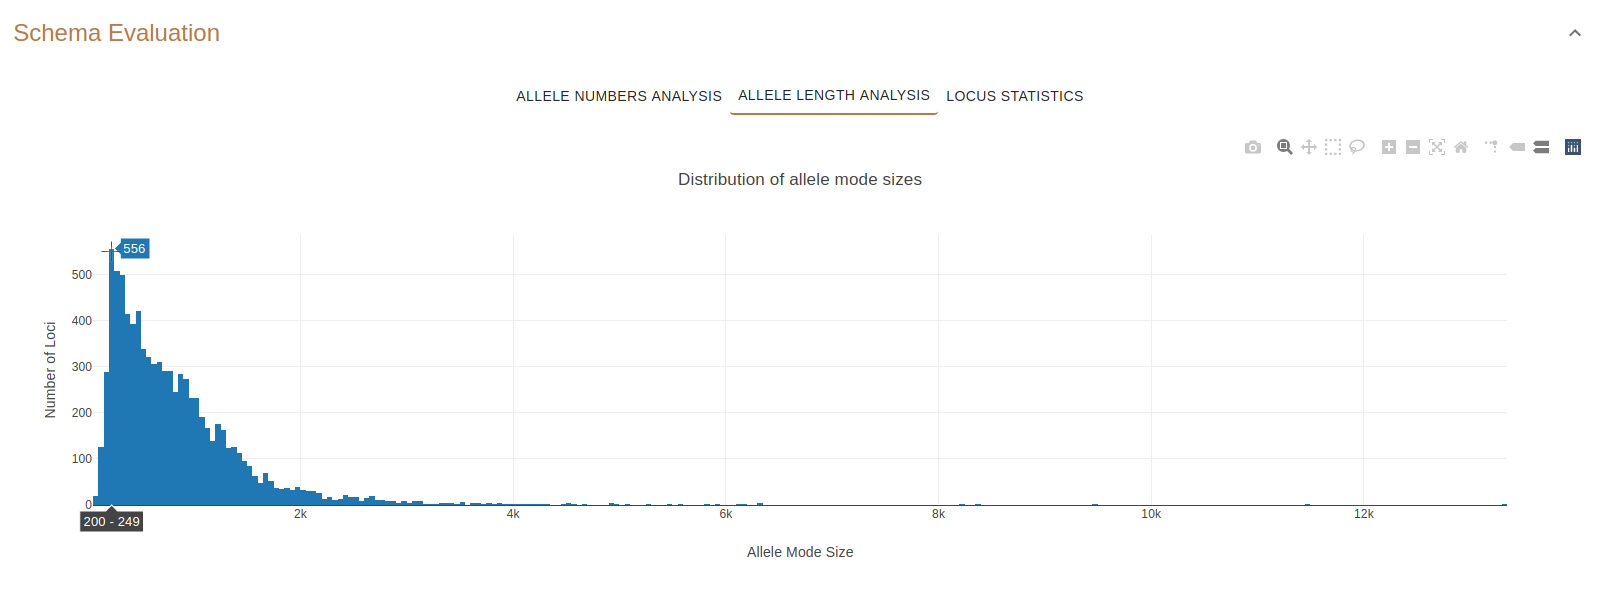
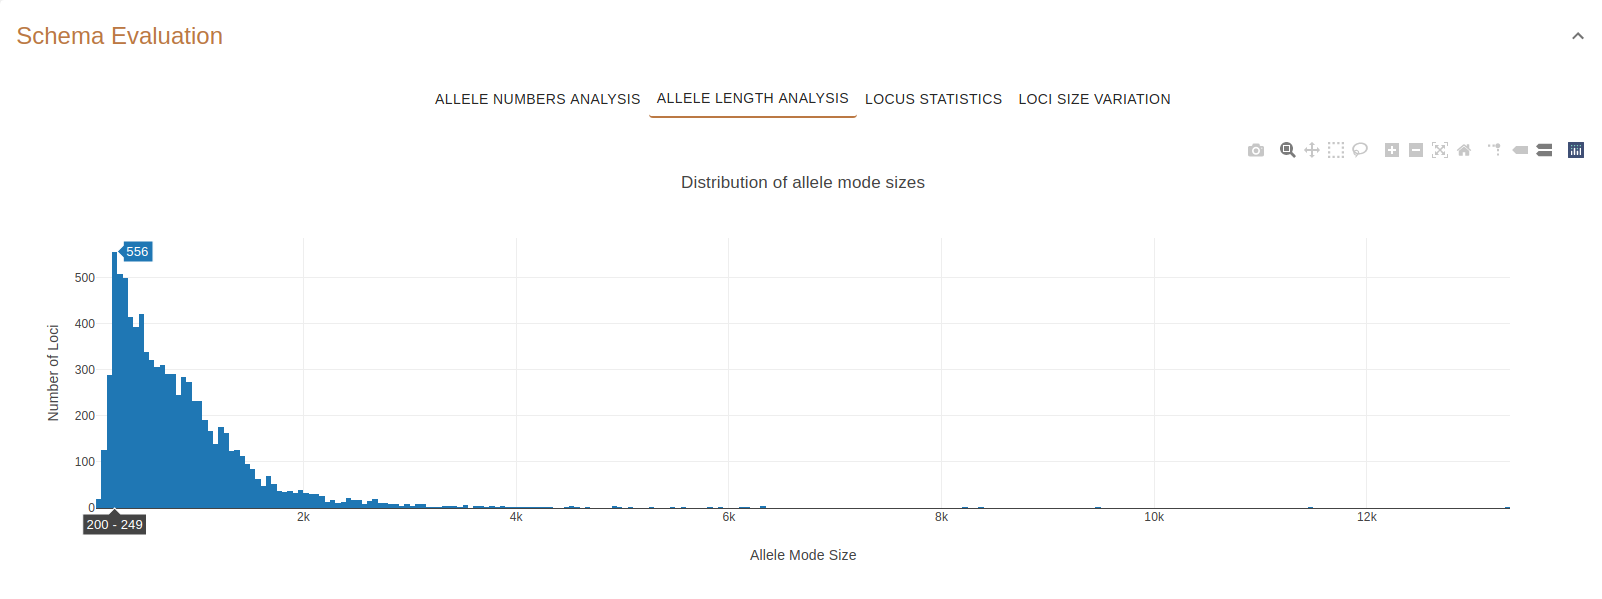
Added a new section on the Schema Evaluation page about the Loci Variation Size plot. Fixed typos.

diff --git a/docs/user_interface/schema_evaluation.rst b/docs/user_interface/schema_evaluation.rst
@@ -43,7 +43,7 @@ For more information on the Markdown specification accepted by Chewie-NS please 
 Schema Evaluation
 -----------------
 
-The Schema Evaluation panel contains 3 plots displaying basic statistics about the schema.
+The Schema Evaluation panel contains 4 plots displaying basic statistics about the schema.
 The plots are displayed by clicking on the corrresponding buttons.
 
 .. note::
@@ -88,10 +88,10 @@ having an **allele mode size (x-axis)** within the range shown.
 Locus Statistics
 ^^^^^^^^^^^^^^^^
 
-This plot displays the the number of alleles and the central tendency measures **mean**, **median** and **mode** of the length of each locus.
+This plot displays the number of alleles and the central tendency measures **mean**, **median** and **mode** of the length of each locus.
 
 The **y-axis** represents the **number of alleles in the locus** while the 
-**y-axis** represents the **central tendency measures of the length of the alleles in base pairs**.
+**x-axis** represents the **central tendency measures of the length of the alleles in base pairs**.
 
 For example, **Figure 8** shows that Locus 16801 has more than 1500 alleles (y-axis) and 
 that the central tendency measures of allele length are similar are over 5500 base pairs.
@@ -101,8 +101,28 @@ that the central tendency measures of allele length are similar are over 5500 ba
 .. figure:: ../resources/locus_statistics.png
     :align: center
 
-    Figure 6.1: Locus 16801. Clicking on this point will open a page with the details of locus 16801
-   
+    Figure 6.1: Locus 16801. Clicking on this point will open a page with the details of locus 16801.
+
+Loci Size Variation
+^^^^^^^^^^^^^^^^^^^
+
+This plot displays the size variation of all the loci in the schema.
+
+The **y-axis** represents the **central tendency measures of the length of the alleles in base pairs**
+and the **x-axis** represents the each loci.
+
+.. important:: **Clicking** on the plot's data points will take you the :doc:`locus_details` page of that locus!
+
+.. figure:: ../resources/locus_size_variation_overview.png
+    :align: center
+
+    Figure 7.1: Loci size variation overview.
+
+.. figure:: ../resources/locus_size_variation_zoom.png
+    :align: center
+
+    Figure 7.2: Locus 15030. Clicking on this point will open a page with the details of locus 15030.
+
 
 Annotations 
 -----------
@@ -123,6 +143,6 @@ The columns of the table are the following:
 .. figure:: ../resources/annotations_table.png
     :align: center
 
-    Figure 7.1: Annotations table.
+    Figure 8.1: Annotations table.
 
    
